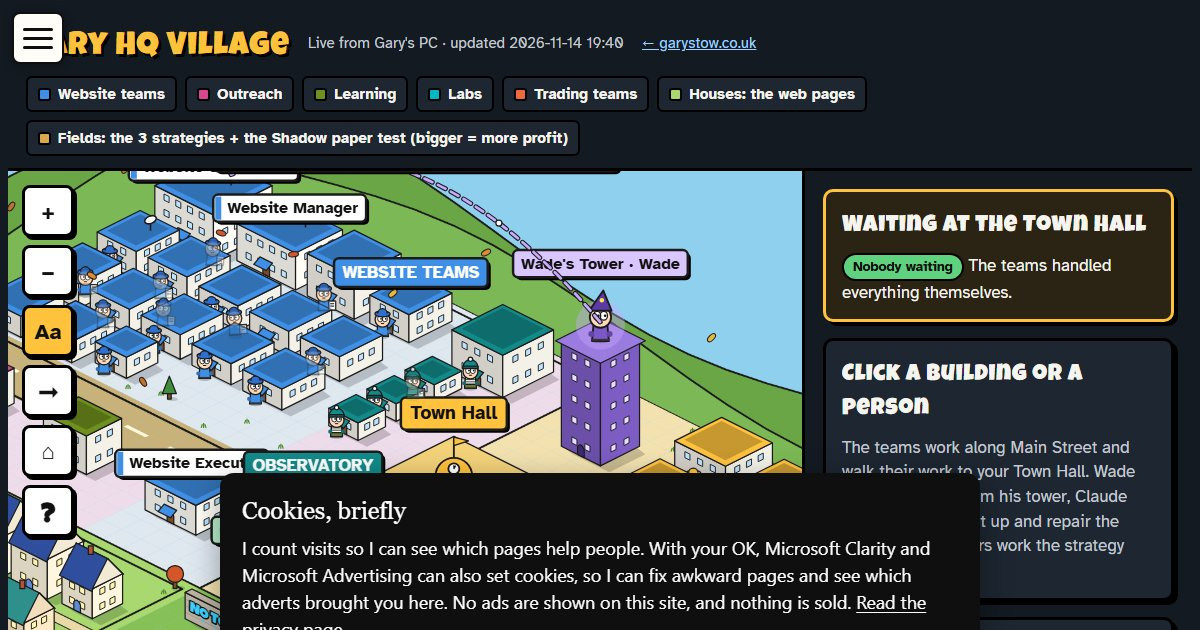
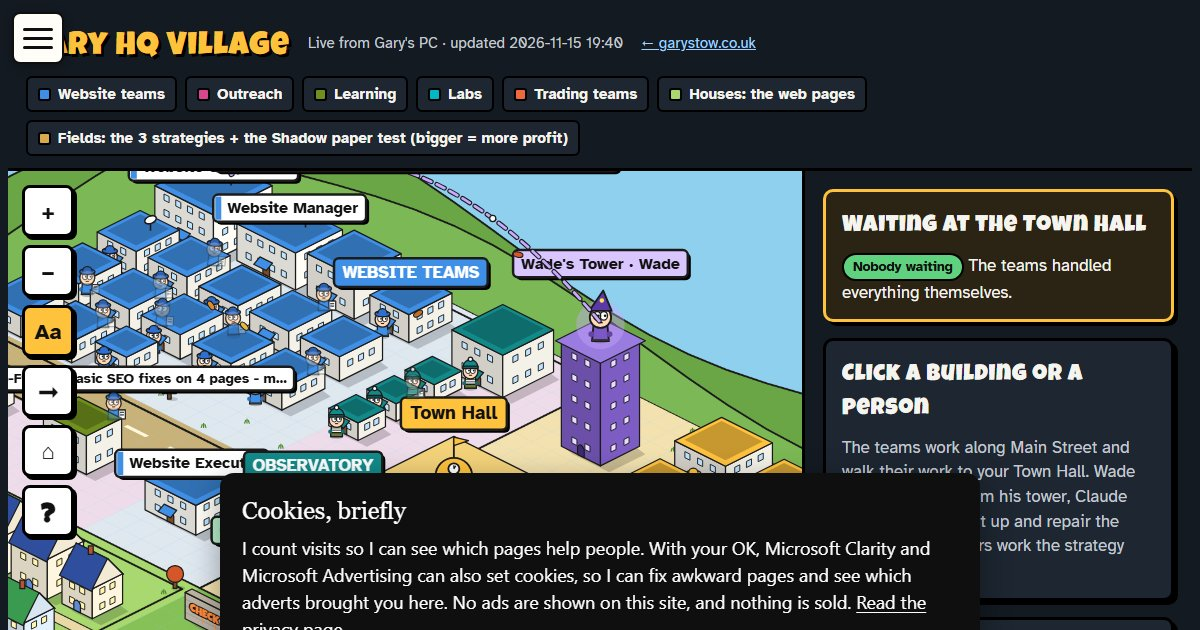
Village: refresh the public data (2026-11-15 19:40)

diff --git a/agents/map/index.html b/agents/map/index.html
@@ -114,7 +114,7 @@ section.map-sky{background:#070a12;color:#f4f6fb;padding:2rem 4rem 2.5rem;border
   <div class="map-stat"><b>79</b><span>Agents running</span></div>
   <div class="map-stat"><b>135</b><span>Hand-offs between them</span></div>
   <div class="map-stat"><b>4</b><span>Teams pulling toward 2 goals</span></div>
-  <div class="map-stat ok"><b>0</b><span>Problems right now: all green</span></div>
+  <div class="map-stat bad"><b>2</b><span>Problems right now</span></div>
 </div>
 
 <!-- THE SPHERE -->
@@ -179,7 +179,7 @@ section.map-sky{background:#070a12;color:#f4f6fb;padding:2rem 4rem 2.5rem;border
     <span class="section-num">02</span>
     <h2>Every agent on the map</h2>
   </div>
-  <p style="margin-bottom:1.5rem;max-width:65ch">Last checked 14 Nov 2026, 19:35. This public copy refreshes every evening.</p>
+  <p style="margin-bottom:1.5rem;max-width:65ch">Last checked 15 Nov 2026, 19:35. This public copy refreshes every evening.</p>
   <details open>
     <summary>The two goals (2)</summary>
     <dl>
